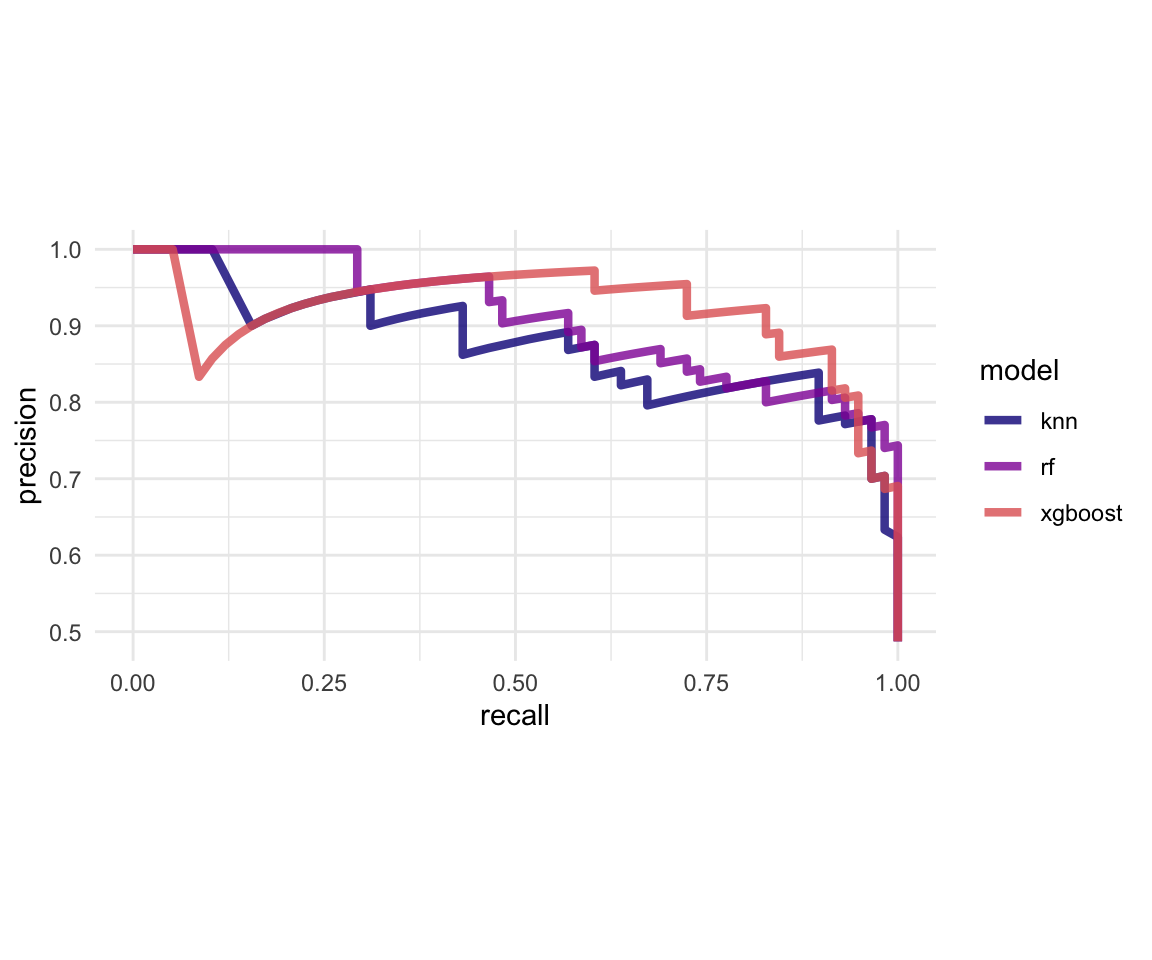
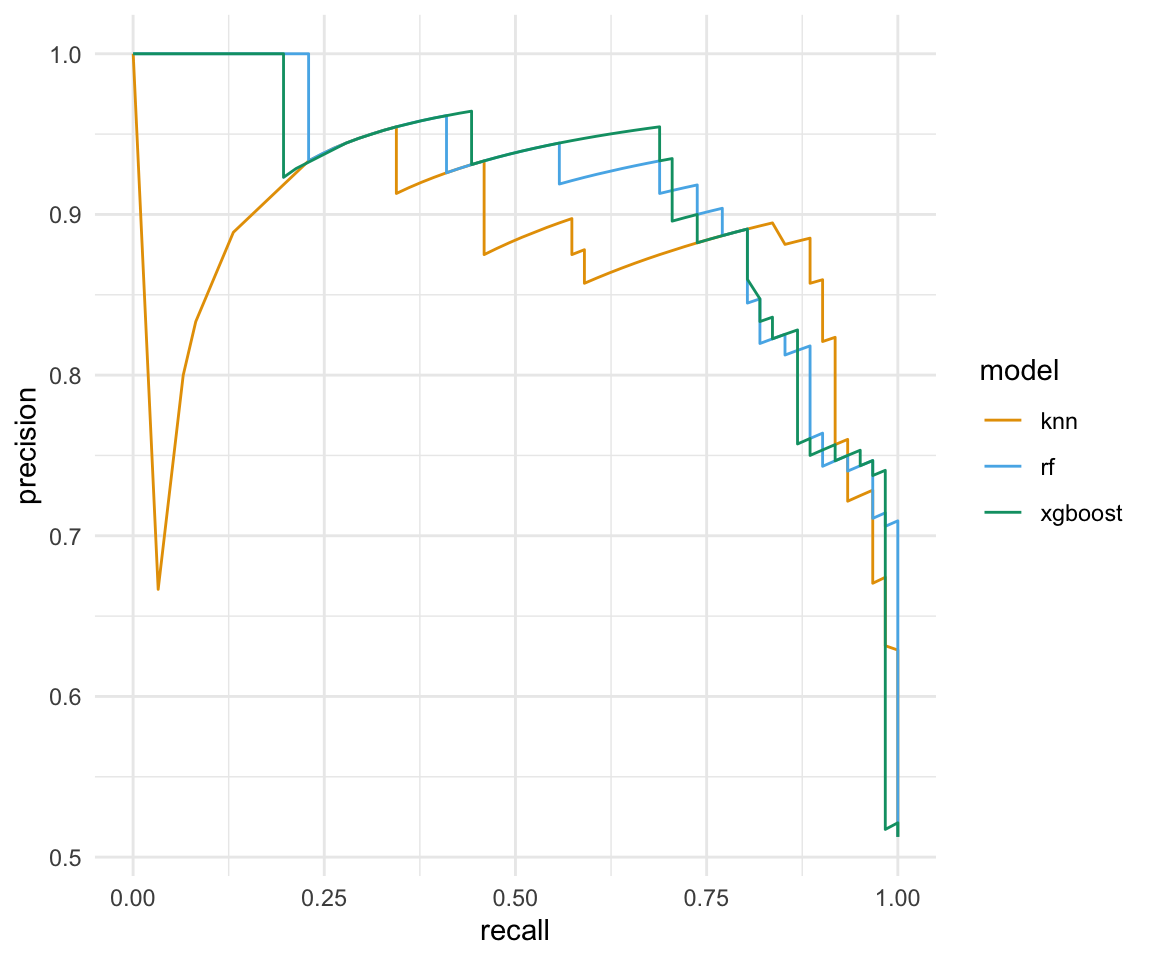
added text

diff --git a/docs/classification-model-compare.html b/docs/classification-model-compare.html
@@ -75,6 +75,25 @@ code span.st { color: #4070a0; } /* String */
 code span.va { color: #19177c; } /* Variable */
 code span.vs { color: #4070a0; } /* VerbatimString */
 code span.wa { color: #60a0b0; font-weight: bold; font-style: italic; } /* Warning */
+div.csl-bib-body { }
+div.csl-entry {
+  clear: both;
+}
+.hanging div.csl-entry {
+  margin-left:2em;
+  text-indent:-2em;
+}
+div.csl-left-margin {
+  min-width:2em;
+  float:left;
+}
+div.csl-right-inline {
+  margin-left:2em;
+  padding-left:1em;
+}
+div.csl-indent {
+  margin-left: 2em;
+}
 </style>
 
 <script src="site_libs/quarto-nav/quarto-nav.js"></script>
@@ -569,7 +588,7 @@ code span.wa { color: #60a0b0; font-weight: bold; font-style: italic; } /* Warni
 </header><div class="cell">
 
 </div>
-<p><em>Version vom November 29, 2022 um 20:23:21</em></p>
+<p><em>Version vom November 29, 2022 um 21:56:41</em></p>
 <div class="quarto-figure quarto-figure-center">
 <figure class="figure"><p><img src="images/caution.png" class="img-fluid figure-img" style="width:50.0%"></p>
 </figure>
@@ -594,11 +613,13 @@ Tuning und Resampling?
 <div class="cell">
 <div class="sourceCode" id="cb1"><pre class="downlit sourceCode r code-with-copy"><code class="sourceCode R"><span><span class="fu">pacman</span><span class="fu">::</span><span class="fu"><a href="https://rdrr.io/pkg/pacman/man/p_load.html">p_load</a></span><span class="op">(</span><span class="va">tidyverse</span>, <span class="va">tidymodels</span>, <span class="va">magrittr</span>, </span>
 <span>               <span class="va">janitor</span>, <span class="va">xgboost</span>, <span class="va">ranger</span>, <span class="va">kknn</span>,</span>
-<span>               <span class="va">conflicted</span><span class="op">)</span></span>
+<span>               <span class="va">see</span>, <span class="va">conflicted</span><span class="op">)</span></span>
 <span><span class="fu">conflict_prefer</span><span class="op">(</span><span class="st">"select"</span>, <span class="st">"dplyr"</span><span class="op">)</span></span>
 <span><span class="fu">conflict_prefer</span><span class="op">(</span><span class="st">"filter"</span>, <span class="st">"dplyr"</span><span class="op">)</span></span>
 <span><span class="fu">conflict_prefer</span><span class="op">(</span><span class="st">"mutate"</span>, <span class="st">"dplyr"</span><span class="op">)</span></span>
-<span><span class="fu">conflict_prefer</span><span class="op">(</span><span class="st">"extract"</span>, <span class="st">"magrittr"</span><span class="op">)</span></span></code><button title="In die Zwischenablage kopieren" class="code-copy-button"><i class="bi"></i></button></pre></div>
+<span><span class="fu">conflict_prefer</span><span class="op">(</span><span class="st">"extract"</span>, <span class="st">"magrittr"</span><span class="op">)</span></span>
+<span><span class="co">##</span></span>
+<span><span class="fu"><a href="https://rdrr.io/r/base/Random.html">set.seed</a></span><span class="op">(</span><span class="fl">20234534</span><span class="op">)</span></span></code><button title="In die Zwischenablage kopieren" class="code-copy-button"><i class="bi"></i></button></pre></div>
 </div>
 <p>Am Ende des Kapitels findest du nochmal den gesamten R Code in einem Rutsch zum selber durchführen oder aber kopieren.</p>
 </section><section id="daten" class="level2" data-number="56.2"><h2 data-number="56.2" class="anchored" data-anchor-id="daten">
@@ -752,7 +773,6 @@ Tuning und Resampling?
 <span>  <span class="fu">update_role</span><span class="op">(</span><span class="va">student_id</span>, new_role <span class="op">=</span> <span class="st">"ID"</span><span class="op">)</span> <span class="op">%&gt;%</span> </span>
 <span>  <span class="fu">step_impute_mean</span><span class="op">(</span><span class="fu">all_numeric_predictors</span><span class="op">(</span><span class="op">)</span>, <span class="op">-</span><span class="fu">has_role</span><span class="op">(</span><span class="st">"ID"</span><span class="op">)</span><span class="op">)</span> <span class="op">%&gt;%</span> </span>
 <span>  <span class="fu">step_impute_bag</span><span class="op">(</span><span class="fu">all_nominal_predictors</span><span class="op">(</span><span class="op">)</span>, <span class="op">-</span><span class="fu">has_role</span><span class="op">(</span><span class="st">"ID"</span><span class="op">)</span><span class="op">)</span> <span class="op">%&gt;%</span> </span>
-<span>  <span class="fu">step_discretize</span><span class="op">(</span><span class="va">semester</span>, num_breaks <span class="op">=</span> <span class="fl">3</span>, min_unique <span class="op">=</span> <span class="fl">4</span><span class="op">)</span> <span class="op">%&gt;%</span> </span>
 <span>  <span class="fu">step_range</span><span class="op">(</span><span class="fu">all_numeric_predictors</span><span class="op">(</span><span class="op">)</span>, min <span class="op">=</span> <span class="fl">0</span>, max <span class="op">=</span> <span class="fl">1</span>, <span class="op">-</span><span class="fu">has_role</span><span class="op">(</span><span class="st">"ID"</span><span class="op">)</span><span class="op">)</span> <span class="op">%&gt;%</span> </span>
 <span>  <span class="fu">step_dummy</span><span class="op">(</span><span class="fu">all_nominal_predictors</span><span class="op">(</span><span class="op">)</span>, <span class="op">-</span><span class="fu">has_role</span><span class="op">(</span><span class="st">"ID"</span><span class="op">)</span><span class="op">)</span> <span class="op">%&gt;%</span> </span>
 <span>  <span class="fu">step_nzv</span><span class="op">(</span><span class="fu">all_predictors</span><span class="op">(</span><span class="op">)</span>, <span class="op">-</span><span class="fu">has_role</span><span class="op">(</span><span class="st">"ID"</span><span class="op">)</span><span class="op">)</span></span>
@@ -798,13 +818,9 @@ Huch, der Code ist aber sehr kurz…
 <div class="cell">
 <div class="sourceCode" id="cb8"><pre class="downlit sourceCode r code-with-copy"><code class="sourceCode R"><span><span class="va">knn_fit</span> <span class="op">&lt;-</span> <span class="va">knn_wflow</span> <span class="op">%&gt;%</span> </span>
 <span>  <span class="fu">parsnip</span><span class="fu">::</span><span class="fu"><a href="https://generics.r-lib.org/reference/fit.html">fit</a></span><span class="op">(</span><span class="va">gummi_train_data</span><span class="op">)</span></span></code><button title="In die Zwischenablage kopieren" class="code-copy-button"><i class="bi"></i></button></pre></div>
-<div class="cell-output cell-output-stderr">
-<pre><code>Warning: Data not binned; too few unique values per bin. Adjust 'min_unique' as
-needed</code></pre>
-</div>
 </div>
 <div class="cell">
-<div class="sourceCode" id="cb10"><pre class="downlit sourceCode r code-with-copy"><code class="sourceCode R"><span><span class="va">knn_aug</span> <span class="op">&lt;-</span> <span class="fu">augment</span><span class="op">(</span><span class="va">knn_fit</span>, <span class="va">gummi_test_data</span> <span class="op">)</span> </span></code><button title="In die Zwischenablage kopieren" class="code-copy-button"><i class="bi"></i></button></pre></div>
+<div class="sourceCode" id="cb9"><pre class="downlit sourceCode r code-with-copy"><code class="sourceCode R"><span><span class="va">knn_aug</span> <span class="op">&lt;-</span> <span class="fu">augment</span><span class="op">(</span><span class="va">knn_fit</span>, <span class="va">gummi_test_data</span> <span class="op">)</span> </span></code><button title="In die Zwischenablage kopieren" class="code-copy-button"><i class="bi"></i></button></pre></div>
 </div>
 </section><section id="random-forest" class="level2" data-number="56.4"><h2 data-number="56.4" class="anchored" data-anchor-id="random-forest">
 <span class="header-section-number">56.4</span> Random Forest</h2>
@@ -834,7 +850,7 @@ Parallele CPU Nutzung
 <div id="callout-4" class="callout-4-contents callout-collapse collapse">
 <div class="callout-body-container callout-body">
 <div class="cell">
-<div class="sourceCode" id="cb11"><pre class="downlit sourceCode r code-with-copy"><code class="sourceCode R"><span><span class="va">cores</span> <span class="op">&lt;-</span> <span class="fu">parallel</span><span class="fu">::</span><span class="fu"><a href="https://rdrr.io/r/parallel/detectCores.html">detectCores</a></span><span class="op">(</span><span class="op">)</span></span>
+<div class="sourceCode" id="cb10"><pre class="downlit sourceCode r code-with-copy"><code class="sourceCode R"><span><span class="va">cores</span> <span class="op">&lt;-</span> <span class="fu">parallel</span><span class="fu">::</span><span class="fu"><a href="https://rdrr.io/r/parallel/detectCores.html">detectCores</a></span><span class="op">(</span><span class="op">)</span></span>
 <span><span class="va">cores</span></span></code><button title="In die Zwischenablage kopieren" class="code-copy-button"><i class="bi"></i></button></pre></div>
 <div class="cell-output cell-output-stdout">
 <pre><code>[1] 8</code></pre>
@@ -845,25 +861,21 @@ Parallele CPU Nutzung
 </div>
 </div>
 <div class="cell">
-<div class="sourceCode" id="cb13"><pre class="downlit sourceCode r code-with-copy"><code class="sourceCode R"><span><span class="va">ranger_mod</span> <span class="op">&lt;-</span> <span class="fu">rand_forest</span><span class="op">(</span>mtry <span class="op">=</span> <span class="fl">5</span>, min_n <span class="op">=</span> <span class="fl">10</span>, trees <span class="op">=</span> <span class="fl">1000</span><span class="op">)</span> <span class="op">%&gt;%</span> </span>
+<div class="sourceCode" id="cb12"><pre class="downlit sourceCode r code-with-copy"><code class="sourceCode R"><span><span class="va">ranger_mod</span> <span class="op">&lt;-</span> <span class="fu">rand_forest</span><span class="op">(</span>mtry <span class="op">=</span> <span class="fl">5</span>, min_n <span class="op">=</span> <span class="fl">10</span>, trees <span class="op">=</span> <span class="fl">1000</span><span class="op">)</span> <span class="op">%&gt;%</span> </span>
 <span>  <span class="fu">set_engine</span><span class="op">(</span><span class="st">"ranger"</span><span class="op">)</span> <span class="op">%&gt;%</span> </span>
 <span>  <span class="fu">set_mode</span><span class="op">(</span><span class="st">"classification"</span><span class="op">)</span></span></code><button title="In die Zwischenablage kopieren" class="code-copy-button"><i class="bi"></i></button></pre></div>
 </div>
 <div class="cell">
-<div class="sourceCode" id="cb14"><pre class="downlit sourceCode r code-with-copy"><code class="sourceCode R"><span><span class="va">ranger_wflow</span> <span class="op">&lt;-</span> <span class="fu">workflow</span><span class="op">(</span><span class="op">)</span> <span class="op">%&gt;%</span> </span>
+<div class="sourceCode" id="cb13"><pre class="downlit sourceCode r code-with-copy"><code class="sourceCode R"><span><span class="va">ranger_wflow</span> <span class="op">&lt;-</span> <span class="fu">workflow</span><span class="op">(</span><span class="op">)</span> <span class="op">%&gt;%</span> </span>
 <span>  <span class="fu">add_model</span><span class="op">(</span><span class="va">ranger_mod</span><span class="op">)</span> <span class="op">%&gt;%</span> </span>
 <span>  <span class="fu">add_recipe</span><span class="op">(</span><span class="va">gummi_rec</span><span class="op">)</span></span></code><button title="In die Zwischenablage kopieren" class="code-copy-button"><i class="bi"></i></button></pre></div>
 </div>
 <div class="cell">
-<div class="sourceCode" id="cb15"><pre class="downlit sourceCode r code-with-copy"><code class="sourceCode R"><span><span class="va">ranger_fit</span> <span class="op">&lt;-</span> <span class="va">ranger_wflow</span> <span class="op">%&gt;%</span> </span>
+<div class="sourceCode" id="cb14"><pre class="downlit sourceCode r code-with-copy"><code class="sourceCode R"><span><span class="va">ranger_fit</span> <span class="op">&lt;-</span> <span class="va">ranger_wflow</span> <span class="op">%&gt;%</span> </span>
 <span>  <span class="fu">parsnip</span><span class="fu">::</span><span class="fu"><a href="https://generics.r-lib.org/reference/fit.html">fit</a></span><span class="op">(</span><span class="va">gummi_train_data</span><span class="op">)</span></span></code><button title="In die Zwischenablage kopieren" class="code-copy-button"><i class="bi"></i></button></pre></div>
-<div class="cell-output cell-output-stderr">
-<pre><code>Warning: Data not binned; too few unique values per bin. Adjust 'min_unique' as
-needed</code></pre>
-</div>
 </div>
 <div class="cell">
-<div class="sourceCode" id="cb17"><pre class="downlit sourceCode r code-with-copy"><code class="sourceCode R"><span><span class="va">ranger_aug</span> <span class="op">&lt;-</span> <span class="fu">augment</span><span class="op">(</span><span class="va">ranger_fit</span>, <span class="va">gummi_test_data</span> <span class="op">)</span> </span></code><button title="In die Zwischenablage kopieren" class="code-copy-button"><i class="bi"></i></button></pre></div>
+<div class="sourceCode" id="cb15"><pre class="downlit sourceCode r code-with-copy"><code class="sourceCode R"><span><span class="va">ranger_aug</span> <span class="op">&lt;-</span> <span class="fu">augment</span><span class="op">(</span><span class="va">ranger_fit</span>, <span class="va">gummi_test_data</span> <span class="op">)</span> </span></code><button title="In die Zwischenablage kopieren" class="code-copy-button"><i class="bi"></i></button></pre></div>
 </div>
 </section><section id="xgboost" class="level2" data-number="56.5"><h2 data-number="56.5" class="anchored" data-anchor-id="xgboost">
 <span class="header-section-number">56.5</span> xgboost</h2>
@@ -881,35 +893,31 @@ Huch, der Code ist aber sehr kurz…
 </div>
 </div>
 <div class="cell">
-<div class="sourceCode" id="cb18"><pre class="downlit sourceCode r code-with-copy"><code class="sourceCode R"><span><span class="va">xgboost_mod</span> <span class="op">&lt;-</span> <span class="fu">boost_tree</span><span class="op">(</span>mtry <span class="op">=</span> <span class="fl">5</span>, min_n <span class="op">=</span> <span class="fl">10</span>, trees <span class="op">=</span> <span class="fl">1000</span><span class="op">)</span> <span class="op">%&gt;%</span> </span>
+<div class="sourceCode" id="cb16"><pre class="downlit sourceCode r code-with-copy"><code class="sourceCode R"><span><span class="va">xgboost_mod</span> <span class="op">&lt;-</span> <span class="fu">boost_tree</span><span class="op">(</span>mtry <span class="op">=</span> <span class="fl">5</span>, min_n <span class="op">=</span> <span class="fl">10</span>, trees <span class="op">=</span> <span class="fl">1000</span><span class="op">)</span> <span class="op">%&gt;%</span> </span>
 <span>  <span class="fu">set_engine</span><span class="op">(</span><span class="st">"xgboost"</span><span class="op">)</span> <span class="op">%&gt;%</span> </span>
 <span>  <span class="fu">set_mode</span><span class="op">(</span><span class="st">"classification"</span><span class="op">)</span></span></code><button title="In die Zwischenablage kopieren" class="code-copy-button"><i class="bi"></i></button></pre></div>
 </div>
 <div class="cell">
-<div class="sourceCode" id="cb19"><pre class="downlit sourceCode r code-with-copy"><code class="sourceCode R"><span><span class="va">xgboost_wflow</span> <span class="op">&lt;-</span> <span class="fu">workflow</span><span class="op">(</span><span class="op">)</span> <span class="op">%&gt;%</span> </span>
+<div class="sourceCode" id="cb17"><pre class="downlit sourceCode r code-with-copy"><code class="sourceCode R"><span><span class="va">xgboost_wflow</span> <span class="op">&lt;-</span> <span class="fu">workflow</span><span class="op">(</span><span class="op">)</span> <span class="op">%&gt;%</span> </span>
 <span>  <span class="fu">add_model</span><span class="op">(</span><span class="va">xgboost_mod</span><span class="op">)</span> <span class="op">%&gt;%</span> </span>
 <span>  <span class="fu">add_recipe</span><span class="op">(</span><span class="va">gummi_rec</span><span class="op">)</span></span></code><button title="In die Zwischenablage kopieren" class="code-copy-button"><i class="bi"></i></button></pre></div>
 </div>
 <div class="cell">
-<div class="sourceCode" id="cb20"><pre class="downlit sourceCode r code-with-copy"><code class="sourceCode R"><span><span class="va">xgboost_fit</span> <span class="op">&lt;-</span> <span class="va">xgboost_wflow</span> <span class="op">%&gt;%</span> </span>
+<div class="sourceCode" id="cb18"><pre class="downlit sourceCode r code-with-copy"><code class="sourceCode R"><span><span class="va">xgboost_fit</span> <span class="op">&lt;-</span> <span class="va">xgboost_wflow</span> <span class="op">%&gt;%</span> </span>
 <span>  <span class="fu">parsnip</span><span class="fu">::</span><span class="fu"><a href="https://generics.r-lib.org/reference/fit.html">fit</a></span><span class="op">(</span><span class="va">gummi_train_data</span><span class="op">)</span></span></code><button title="In die Zwischenablage kopieren" class="code-copy-button"><i class="bi"></i></button></pre></div>
-<div class="cell-output cell-output-stderr">
-<pre><code>Warning: Data not binned; too few unique values per bin. Adjust 'min_unique' as
-needed</code></pre>
-</div>
 </div>
 <div class="cell">
-<div class="sourceCode" id="cb22"><pre class="downlit sourceCode r code-with-copy"><code class="sourceCode R"><span><span class="va">xgboost_aug</span> <span class="op">&lt;-</span> <span class="fu">augment</span><span class="op">(</span><span class="va">xgboost_fit</span>, <span class="va">gummi_test_data</span> <span class="op">)</span> </span></code><button title="In die Zwischenablage kopieren" class="code-copy-button"><i class="bi"></i></button></pre></div>
+<div class="sourceCode" id="cb19"><pre class="downlit sourceCode r code-with-copy"><code class="sourceCode R"><span><span class="va">xgboost_aug</span> <span class="op">&lt;-</span> <span class="fu">augment</span><span class="op">(</span><span class="va">xgboost_fit</span>, <span class="va">gummi_test_data</span> <span class="op">)</span> </span></code><button title="In die Zwischenablage kopieren" class="code-copy-button"><i class="bi"></i></button></pre></div>
 </div>
 </section><section id="vergleich-der-modelle" class="level2 page-columns page-full" data-number="56.6"><h2 data-number="56.6" class="anchored" data-anchor-id="vergleich-der-modelle">
 <span class="header-section-number">56.6</span> Vergleich der Modelle</h2>
 <div class="cell">
-<div class="sourceCode" id="cb23"><pre class="downlit sourceCode r code-with-copy"><code class="sourceCode R"><span><span class="va">fit_lst</span> <span class="op">&lt;-</span> <span class="fu">lst</span><span class="op">(</span>knn <span class="op">=</span> <span class="va">knn_aug</span>,</span>
+<div class="sourceCode" id="cb20"><pre class="downlit sourceCode r code-with-copy"><code class="sourceCode R"><span><span class="va">fit_lst</span> <span class="op">&lt;-</span> <span class="fu">lst</span><span class="op">(</span>knn <span class="op">=</span> <span class="va">knn_aug</span>,</span>
 <span>               rf <span class="op">=</span> <span class="va">ranger_aug</span>,</span>
 <span>               xgboost <span class="op">=</span> <span class="va">xgboost_aug</span><span class="op">)</span></span></code><button title="In die Zwischenablage kopieren" class="code-copy-button"><i class="bi"></i></button></pre></div>
 </div>
 <div class="cell">
-<div class="sourceCode" id="cb24"><pre class="downlit sourceCode r code-with-copy"><code class="sourceCode R"><span><span class="va">fit_lst</span> <span class="op">%&gt;%</span> </span>
+<div class="sourceCode" id="cb21"><pre class="downlit sourceCode r code-with-copy"><code class="sourceCode R"><span><span class="va">fit_lst</span> <span class="op">%&gt;%</span> </span>
 <span>  <span class="fu">map</span><span class="op">(</span><span class="op">~</span><span class="fu">conf_mat</span><span class="op">(</span><span class="va">.x</span>, <span class="va">gender</span>, <span class="va">.pred_class</span><span class="op">)</span><span class="op">)</span> <span class="op">%&gt;%</span> </span>
 <span>  <span class="fu">map</span><span class="op">(</span><span class="va">summary</span><span class="op">)</span> <span class="op">%&gt;%</span> </span>
 <span>  <span class="fu">map</span><span class="op">(</span><span class="op">~</span><span class="fu">select</span><span class="op">(</span><span class="va">.x</span>, <span class="va">.metric</span>, <span class="va">.estimate</span><span class="op">)</span><span class="op">)</span> <span class="op">%&gt;%</span> </span>
@@ -920,61 +928,108 @@ needed</code></pre>
 <pre><code># A tibble: 13 × 4
    metric                 knn    rf xboost
    &lt;chr&gt;                &lt;dbl&gt; &lt;dbl&gt;  &lt;dbl&gt;
- 1 accuracy             0.849 0.849  0.891
- 2 kap                  0.698 0.698  0.782
- 3 sens                 0.836 0.787  0.869
- 4 spec                 0.862 0.914  0.914
- 5 ppv                  0.864 0.906  0.914
- 6 npv                  0.833 0.803  0.869
- 7 mcc                  0.698 0.705  0.783
- 8 j_index              0.698 0.701  0.783
- 9 bal_accuracy         0.849 0.85   0.891
-10 detection_prevalence 0.496 0.445  0.487
-11 precision            0.864 0.906  0.914
-12 recall               0.836 0.787  0.869
-13 f_meas               0.85  0.842  0.891</code></pre>
+ 1 accuracy             0.882 0.824  0.84 
+ 2 kap                  0.765 0.647  0.681
+ 3 sens                 0.879 0.845  0.879
+ 4 spec                 0.885 0.803  0.803
+ 5 ppv                  0.879 0.803  0.81 
+ 6 npv                  0.885 0.845  0.875
+ 7 mcc                  0.765 0.648  0.684
+ 8 j_index              0.765 0.648  0.683
+ 9 bal_accuracy         0.882 0.824  0.841
+10 detection_prevalence 0.487 0.513  0.529
+11 precision            0.879 0.803  0.81 
+12 recall               0.879 0.845  0.879
+13 f_meas               0.879 0.824  0.843</code></pre>
 </div>
+</div>
+<p>Wir können auch <em>ganz viele</em> Beurteilungskriterien für die Klassifikation in einer <a href="https://en.wikipedia.org/wiki/Confusion_matrix">Confusion matrix</a> berechnen lassen.</p>
+<div id="tbl-confusion-matrix" class="anchored">
+<table class="table">
+<caption>Tabelle 56.2— Die <a href="https://en.wikipedia.org/wiki/Confusion_matrix">Confusion matrix</a> als eine 2x2 Tabelle oder Vierfeldertafel</caption>
+<tbody>
+<tr class="odd">
+<td style="text-align: center;"></td>
+<td style="text-align: center;"></td>
+<td style="text-align: center;"><strong>Prädiktion</strong></td>
+<td style="text-align: center;"></td>
+</tr>
+<tr class="even">
+<td style="text-align: center;"></td>
+<td style="text-align: center;"></td>
+<td style="text-align: center;">
+<span class="math inline">\(Positiv\; (PP)\)</span> (1)</td>
+<td style="text-align: center;">
+<span class="math inline">\(Negativ\; (PN)\)</span> (0)</td>
+</tr>
+<tr class="odd">
+<td style="text-align: center;"><strong>Wahrheit</strong></td>
+<td style="text-align: center;">
+<span class="math inline">\(Positiv\; (P)\)</span> (1)</td>
+<td style="text-align: center;"><span class="math inline">\(TP\)</span></td>
+<td style="text-align: center;"><span class="math inline">\(FN\)</span></td>
+</tr>
+<tr class="even">
+<td style="text-align: center;"></td>
+<td style="text-align: center;">
+<span class="math inline">\(Negativ\; (N)\)</span> (0)</td>
+<td style="text-align: center;"><span class="math inline">\(FP\)</span></td>
+<td style="text-align: center;"><span class="math inline">\(TN\)</span></td>
+</tr>
+</tbody>
+</table>
 </div>
 <ul>
-<li><strong>accuracy</strong></li>
-<li><strong>kap</strong></li>
-<li><strong>sens</strong></li>
-<li><strong>spec</strong></li>
-<li><strong>ppv</strong></li>
-<li><strong>npv</strong></li>
-<li><strong>mcc</strong></li>
-<li><strong>j_index</strong></li>
-<li><strong>bal_accuracy</strong></li>
-<li><strong>detection_prevalence</strong></li>
-<li><strong>precision</strong></li>
-<li><strong>recall</strong></li>
-<li><strong>f_meas</strong></li>
+<li>
+<strong>accuracy</strong> ist der Anteil der Label, die richtig vorhergesagt werden.</li>
+<li>
+<strong>kap</strong> beschreibt Kappa und damit ein ähnliches Maß wie die <em>accuracy</em>. Dabei wird aber Kappa durch die <em>accuarcy</em> normalisiert, die allein durch Zufall zu erwarten wäre. Damit ist Kappa sehr nützlich, wenn eine oder mehrere Klassen große Häufigkeitsverteilungen haben.</li>
+<li>
+<strong>sens</strong> beschreibt die Sensitivität.</li>
+<li>
+<strong>spec</strong> beschreibt die Spezifität.</li>
+<li>
+<strong>ppv</strong> beschreibt den positiven prädiktiven Wert (eng. <em>positive predictive value</em>).</li>
+<li>
+<strong>npv</strong> beschreibt den negativen prädiktiven Wert (eng. <em>negative predictive value</em>).</li>
+<li>
+<strong>mcc</strong> beschreibt den Matthews Korrelationskoeffizienten (eng. <em>Matthews correlation coefficient</em>). Der Matthews-Korrelationskoeffizient (MCC) ist ein zuverlässiger statistischer Wert, der nur dann einen hohen Wert hat, wenn die Vorhersage in allen vier Kategorien der Konfusionsmatrix (richtig positiv, falsch negativ, richtig negativ und falsch positiv) gute Ergebnisse erzielt. Siehe dazu auch <span class="citation" data-cites="chicco2020advantages">Chicco und Jurman (<a href="#ref-chicco2020advantages" role="doc-biblioref">2020</a>)</span>.</li>
+<li>
+<strong>j_index</strong> beschreibt die Youden-J-Statistik und ist definiert als <span class="math inline">\(J = sens + spec - 1\)</span>. Wenn wir also eine hohe Sensitivität und eine hohe Spezifität haben dann nähert sich <span class="math inline">\(J\)</span> der Eins an.</li>
+<li>
+<strong>bal_accuracy</strong> beschreibt die balancierte <em>accuarcy</em> und wird hier in der Funktion als der Durchschnitt von Sensitivität und Spezifität berechnet.</li>
+<li>
+<strong>detection_prevalence</strong> Die Entdeckungsprävalenz (eng. <em>detection prevalence</em>) ist definiert als die Anzahl der vorhergesagten positiven Ereignisse (sowohl richtig als auch falsch positiv) geteilt durch die Gesamtzahl der Vorhersagen.</li>
+<li>
+<strong>precision</strong> Bei der binären Klassifizierung ist die <em>precision</em> der positiv prädiktive Wert. Damit ist die <em>precision</em> die Anzahl der richtig positiven Ergebnisse geteilt durch die Anzahl aller positiven Ergebnisse, einschließlich derer, die nicht richtig erkannt wurden. Siehe auch <a href="https://en.wikipedia.org/wiki/Confusion_matrix">Confusion matrix</a>.</li>
+<li>
+<strong>recall</strong> Bei der binären Klassifizierung ist der <em>recall</em> die Sensitivität. Damit ist der <em>recall</em> die Anzahl der tatsächlich positiven Ergebnisse geteilt durch die Anzahl aller Ergebnisse, die als positiv hätten identifiziert werden müssen. Siehe auch <a href="https://en.wikipedia.org/wiki/Confusion_matrix">Confusion matrix</a>.</li>
+<li>
+<strong>f_meas</strong> beschreibt den F<span class="math inline">\(_1\)</span> Score und damit das harmonische Mittel aus Precision und Recall. Der höchstmögliche Wert eines F<span class="math inline">\(_1\)</span> Scores ist 1, was perfekte Präzision und Recall bedeutet, und der niedrigstmögliche Wert ist 0, wenn sowohl Präzision als auch Recall null sind. Siehe auch <a href="https://en.wikipedia.org/wiki/Confusion_matrix">Confusion matrix</a>.</li>
 </ul>
 <div class="cell">
-<div class="sourceCode" id="cb26"><pre class="downlit sourceCode r code-with-copy"><code class="sourceCode R"><span><span class="va">roc_tbl</span> <span class="op">&lt;-</span> <span class="va">fit_lst</span> <span class="op">%&gt;%</span> </span>
+<div class="sourceCode" id="cb23"><pre class="downlit sourceCode r code-with-copy"><code class="sourceCode R"><span><span class="va">roc_tbl</span> <span class="op">&lt;-</span> <span class="va">fit_lst</span> <span class="op">%&gt;%</span> </span>
 <span>  <span class="fu">map</span><span class="op">(</span><span class="op">~</span><span class="fu">roc_curve</span><span class="op">(</span><span class="va">.x</span>, <span class="va">gender</span>, <span class="va">.pred_w</span>, event_level <span class="op">=</span> <span class="st">"second"</span><span class="op">)</span><span class="op">)</span> <span class="op">%&gt;%</span> </span>
 <span>  <span class="fu">bind_rows</span><span class="op">(</span>.id <span class="op">=</span> <span class="st">"model"</span><span class="op">)</span></span></code><button title="In die Zwischenablage kopieren" class="code-copy-button"><i class="bi"></i></button></pre></div>
 </div>
 <div class="cell">
-<div class="sourceCode" id="cb27"><pre class="downlit sourceCode r code-with-copy"><code class="sourceCode R"><span><span class="va">pr_tbl</span> <span class="op">&lt;-</span> <span class="va">fit_lst</span> <span class="op">%&gt;%</span> </span>
+<div class="sourceCode" id="cb24"><pre class="downlit sourceCode r code-with-copy"><code class="sourceCode R"><span><span class="va">pr_tbl</span> <span class="op">&lt;-</span> <span class="va">fit_lst</span> <span class="op">%&gt;%</span> </span>
 <span>  <span class="fu">map</span><span class="op">(</span><span class="op">~</span><span class="fu">pr_curve</span><span class="op">(</span><span class="va">.x</span>, <span class="va">gender</span>, <span class="va">.pred_w</span>, event_level <span class="op">=</span> <span class="st">"second"</span><span class="op">)</span><span class="op">)</span> <span class="op">%&gt;%</span> </span>
 <span>  <span class="fu">bind_rows</span><span class="op">(</span>.id <span class="op">=</span> <span class="st">"model"</span><span class="op">)</span></span></code><button title="In die Zwischenablage kopieren" class="code-copy-button"><i class="bi"></i></button></pre></div>
 </div>
 <div class="page-columns page-full">
-<div class="sourceCode" id="cb28"><pre class="downlit sourceCode r code-with-copy"><code class="sourceCode R"><span><span class="va">roc_tbl</span> <span class="op">%&gt;%</span> </span>
+<div class="sourceCode" id="cb25"><pre class="downlit sourceCode r code-with-copy"><code class="sourceCode R"><span><span class="va">roc_tbl</span> <span class="op">%&gt;%</span> </span>
 <span>  <span class="fu">ggplot</span><span class="op">(</span><span class="fu">aes</span><span class="op">(</span>x <span class="op">=</span> <span class="fl">1</span> <span class="op">-</span> <span class="va">specificity</span>, y <span class="op">=</span> <span class="va">sensitivity</span>, col <span class="op">=</span> <span class="va">model</span><span class="op">)</span><span class="op">)</span> <span class="op">+</span> </span>
 <span>  <span class="fu">theme_minimal</span><span class="op">(</span><span class="op">)</span> <span class="op">+</span></span>
-<span>  <span class="fu">geom_path</span><span class="op">(</span>lwd <span class="op">=</span> <span class="fl">1.5</span>, alpha <span class="op">=</span> <span class="fl">0.8</span><span class="op">)</span> <span class="op">+</span></span>
+<span>  <span class="fu">geom_path</span><span class="op">(</span><span class="op">)</span> <span class="op">+</span></span>
 <span>  <span class="fu">geom_abline</span><span class="op">(</span>lty <span class="op">=</span> <span class="fl">3</span><span class="op">)</span> <span class="op">+</span> </span>
-<span>  <span class="fu">coord_equal</span><span class="op">(</span><span class="op">)</span> <span class="op">+</span> </span>
-<span>  <span class="fu">scale_color_viridis_d</span><span class="op">(</span>option <span class="op">=</span> <span class="st">"plasma"</span>, end <span class="op">=</span> <span class="fl">.6</span><span class="op">)</span></span>
+<span>  <span class="fu">scale_color_okabeito</span><span class="op">(</span><span class="op">)</span></span>
 <span></span>
 <span><span class="va">pr_tbl</span> <span class="op">%&gt;%</span> </span>
 <span>  <span class="fu">ggplot</span><span class="op">(</span><span class="fu">aes</span><span class="op">(</span>x <span class="op">=</span> <span class="va">recall</span>, y <span class="op">=</span> <span class="va">precision</span>, col <span class="op">=</span> <span class="va">model</span><span class="op">)</span><span class="op">)</span> <span class="op">+</span> </span>
 <span>  <span class="fu">theme_minimal</span><span class="op">(</span><span class="op">)</span> <span class="op">+</span></span>
-<span>  <span class="fu">geom_path</span><span class="op">(</span>lwd <span class="op">=</span> <span class="fl">1.5</span>, alpha <span class="op">=</span> <span class="fl">0.8</span><span class="op">)</span> <span class="op">+</span></span>
-<span>  <span class="fu">coord_equal</span><span class="op">(</span><span class="op">)</span> <span class="op">+</span> </span>
-<span>  <span class="fu">scale_color_viridis_d</span><span class="op">(</span>option <span class="op">=</span> <span class="st">"plasma"</span>, end <span class="op">=</span> <span class="fl">.6</span><span class="op">)</span></span></code><button title="In die Zwischenablage kopieren" class="code-copy-button"><i class="bi"></i></button></pre></div>
+<span>  <span class="fu">geom_path</span><span class="op">(</span><span class="op">)</span> <span class="op">+</span></span>
+<span>  <span class="fu">scale_color_okabeito</span><span class="op">(</span><span class="op">)</span></span></code><button title="In die Zwischenablage kopieren" class="code-copy-button"><i class="bi"></i></button></pre></div>
 <div id="fig-roc-pr-compare" class="cell column-page quarto-layout-panel">
 <figure class="figure"><div class="quarto-layout-row quarto-layout-valign-top">
 <div class="cell-output-display quarto-layout-cell quarto-layout-cell-subref" style="flex-basis: 50.0%;justify-content: center;">
@@ -1001,6 +1056,11 @@ needed</code></pre>
 <p>https://datascienceplus.com/machine-learning-results-one-plot-to-rule-them-all/ https://datascienceplus.com/machine-learning-results-in-r-one-plot-to-rule-them-all-part-2-regression-models/ https://www.r-bloggers.com/2021/04/the-good-the-bad-and-the-ugly-how-to-visualize-machine-learning-data/ https://neptune.ai/blog/visualizing-machine-learning-models https://uc-r.github.io/lime https://cran.r-project.org/web/packages/mboost/vignettes/mboost_tutorial.pdf</p>
 
 
+<div id="refs" class="references csl-bib-body hanging-indent" role="doc-bibliography">
+<div id="ref-chicco2020advantages" class="csl-entry" role="doc-biblioentry">
+Chicco, Davide, und Giuseppe Jurman. 2020. <span>„The advantages of the Matthews correlation coefficient (MCC) over F1 score and accuracy in binary classification evaluation“</span>. <em>BMC genomics</em> 21 (1): 1–13.
+</div>
+</div>
 </section></main><!-- /main --><script id="quarto-html-after-body" type="application/javascript">
 window.document.addEventListener("DOMContentLoaded", function (event) {
   const icon = "";
